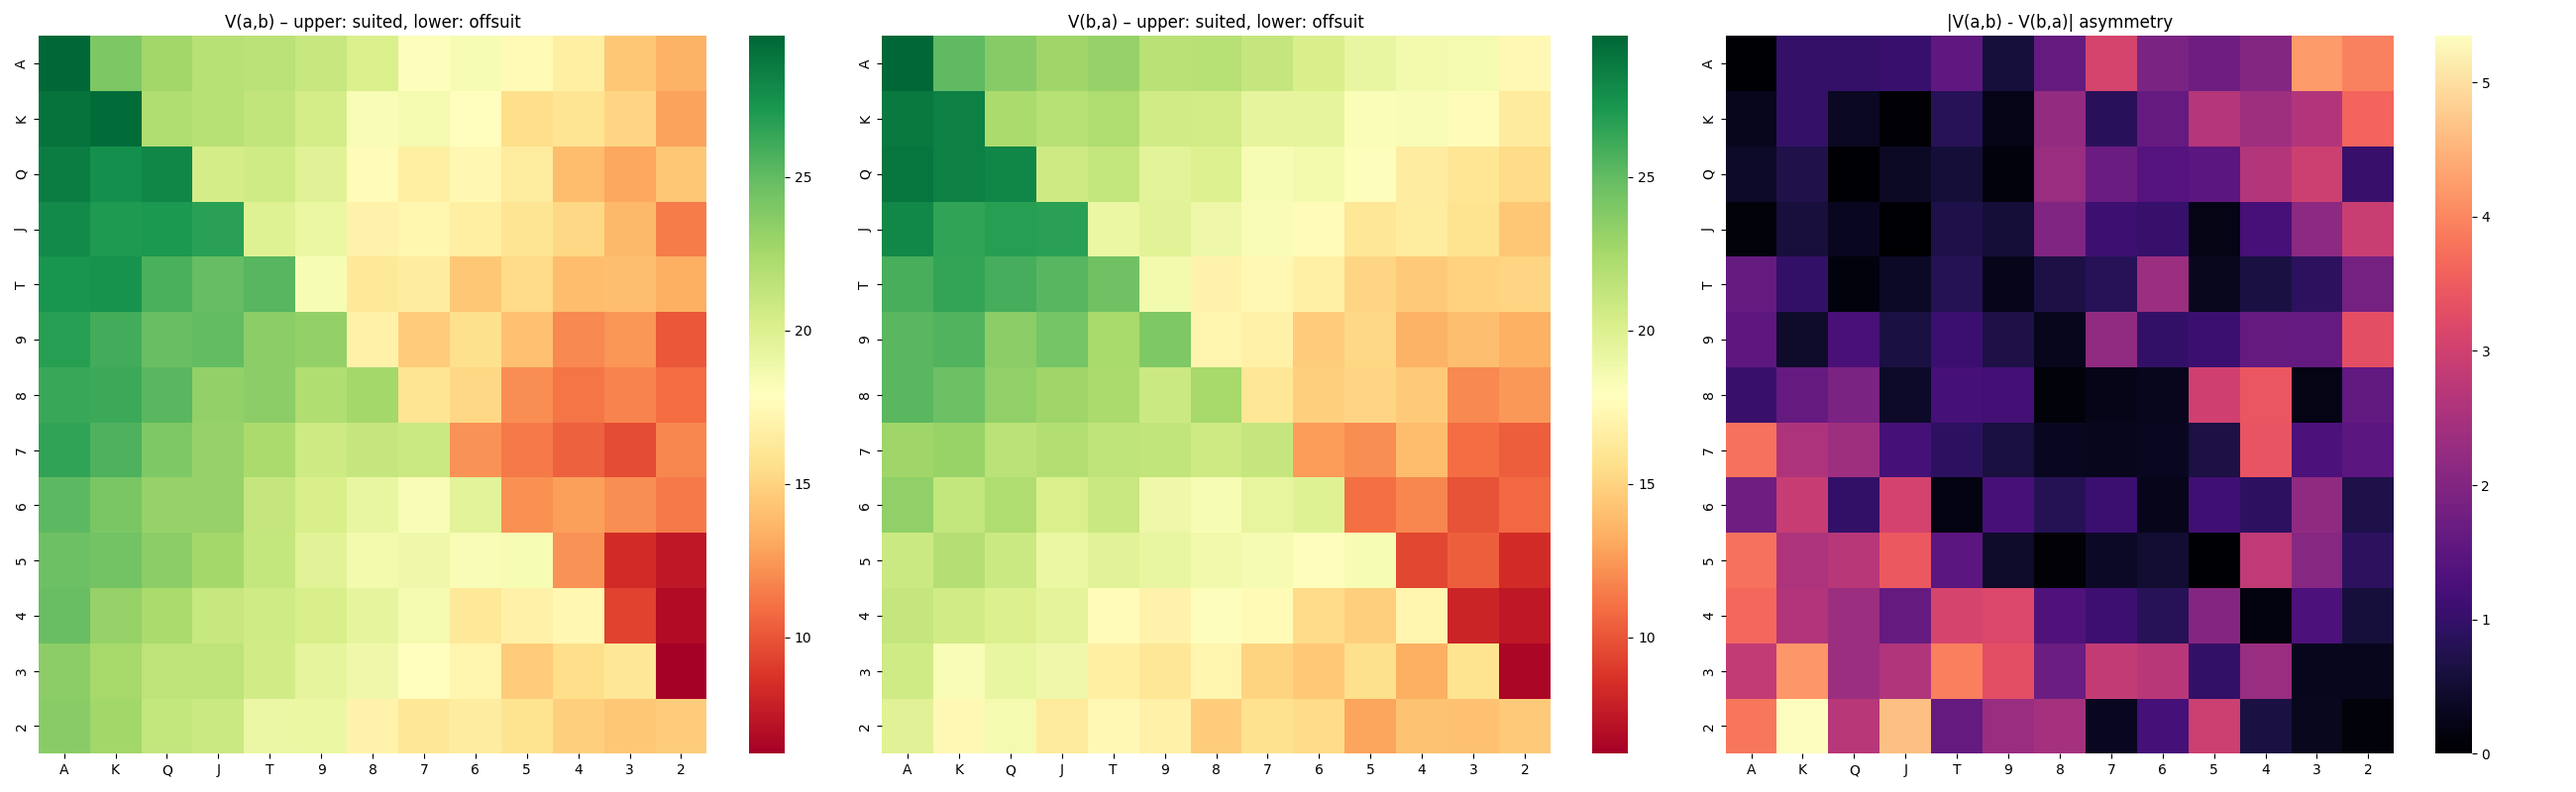
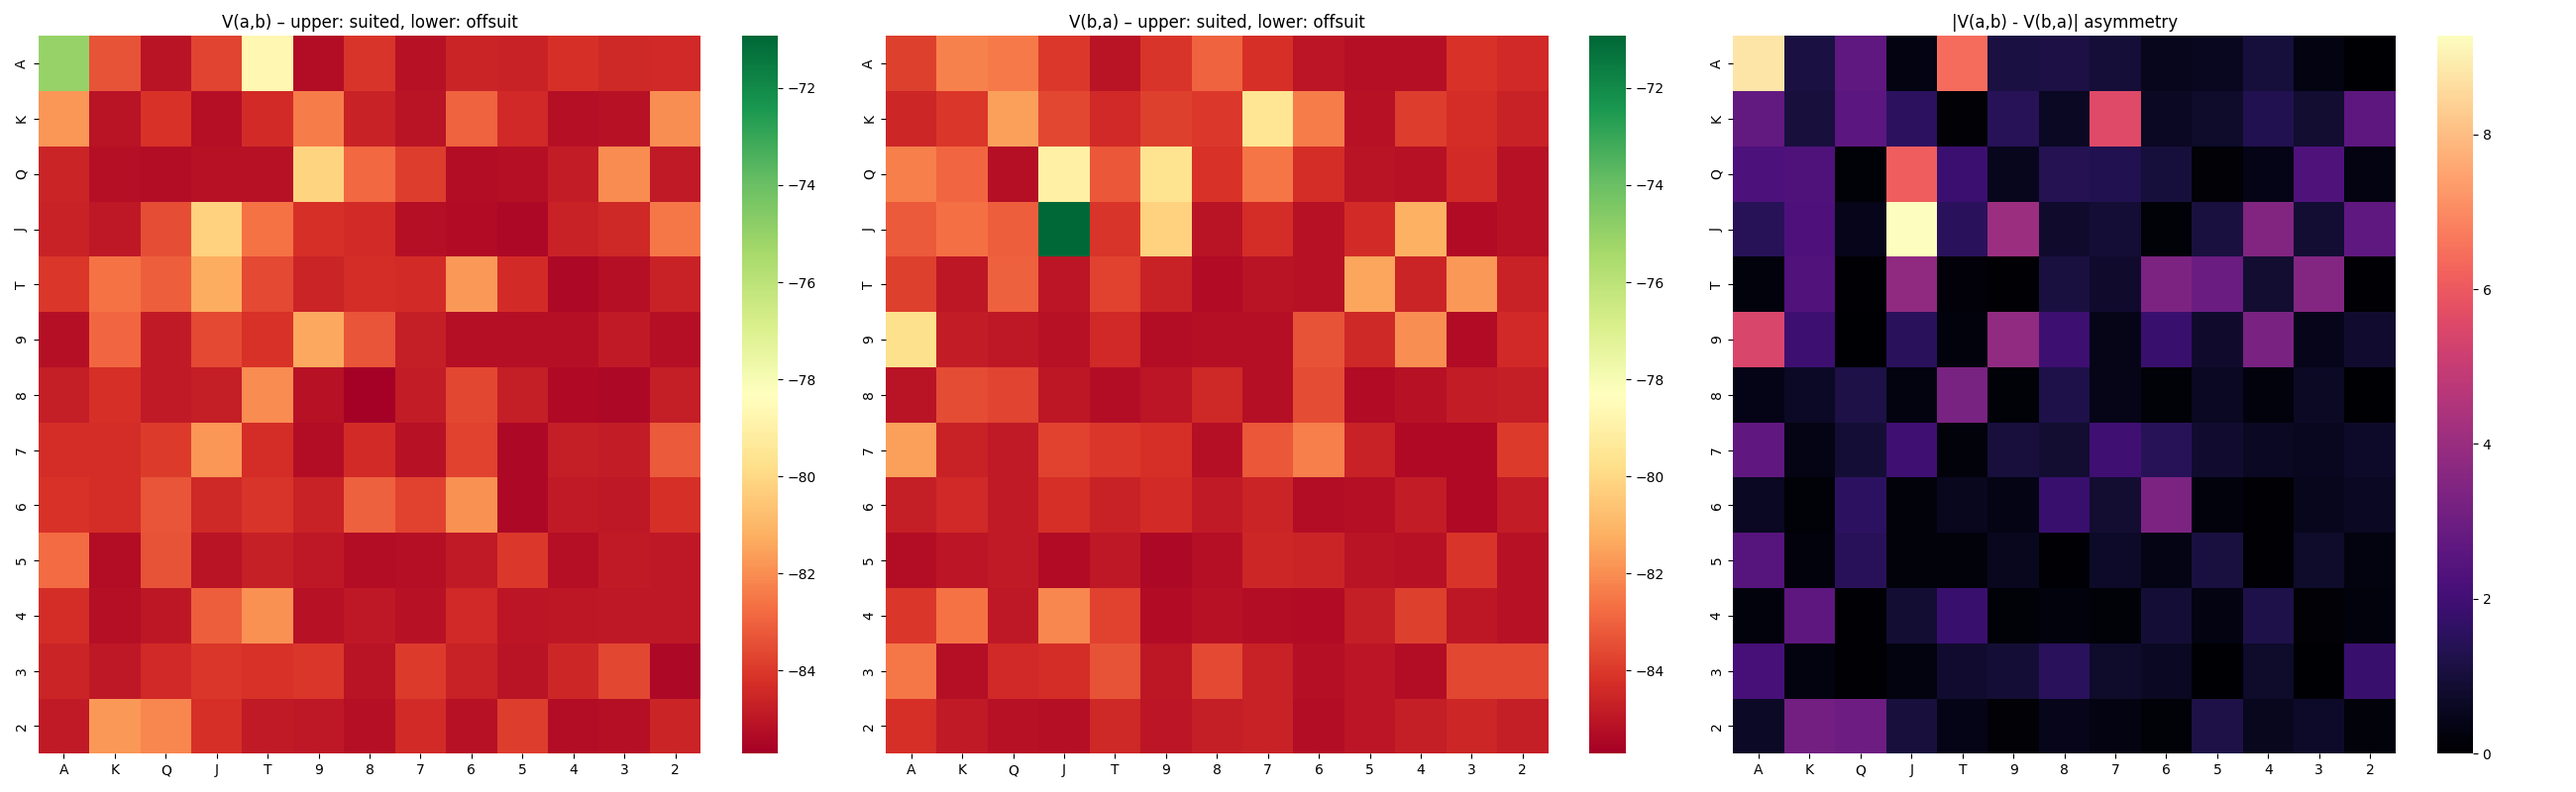
phi reward

diff --git a/poker_train_expresso.py b/poker_train_expresso.py
@@ -22,6 +22,10 @@ from utils.config import DEBUG
 # Compteurs
 number_of_consecutive_hands= 0
 
+# ==================================================================================
+#  RUN ONE EPISODE (nouvelle version avec reward shaping MCCFR)
+# ==================================================================================
+
 def run_episode(env: PokerGame, epsilon: float, rendering: bool, episode: int, render_every: int, data_collector: DataCollector, mccfr_trainer: MCCFRTrainer) -> Tuple[List[float], List[dict]]:
     """
     Exécute un épisode complet du jeu de poker.
@@ -124,8 +128,13 @@ def run_episode(env: PokerGame, epsilon: float, rendering: bool, episode: int, r
             state_seq = copy.deepcopy(state_seq)
         )
 
+        # --------------------------------------------------
+        #  Calcul du potentiel φ(s) = stack + EV_MCCFR(s)
+        # --------------------------------------------------
+        phi_value = mccfr_trainer.compute_phi_from_mccfr(target_vector, payoffs, current_player.stack)
+
         if DEBUG:
-            print(f"[TRAIN] hero_name : {current_player.name}\n[TRAIN] target_vector : {target_vector}\n[TRAIN] payoffs : {payoffs.values()}")
+            print(f"[TRAIN] hero_name : {current_player.name}\n[TRAIN] target_vector : {target_vector}\n[TRAIN] payoffs : {payoffs.values()}, φ(s) : {phi_value:.3f}")
 
         # Prédiction avec une inférence classique du modèle
         chosen_action, action_mask, action_probs = current_player.agent.get_action(state = player_state_seq, valid_actions = valid_actions, target_vector = target_vector, epsilon = epsilon)
@@ -164,7 +173,7 @@ def run_episode(env: PokerGame, epsilon: float, rendering: bool, episode: int, r
             next_state_seq.append(next_state)
             
             # Buffer experience for later reward assignment
-            experiences.append((current_player.agent, player_state_seq.copy(), action_to_idx[chosen_action], action_mask, target_vector, env.current_phase))
+            experiences.append((current_player.agent, player_state_seq.copy(), action_to_idx[chosen_action], action_mask, target_vector, env.current_phase, phi_value))
         
         else : # Cas spécifique au joueur qui déclenche le showdown par son action
             # Stocker l'expérience pour l'entrainement du modèle: on enregistre une copie de la séquence courante
@@ -180,7 +189,7 @@ def run_episode(env: PokerGame, epsilon: float, rendering: bool, episode: int, r
             next_state_seq.append(next_state)
 
             # Stocker l'expérience
-            experiences.append((current_player.agent, previous_player_state_seq.copy(), action_to_idx[chosen_action], action_mask, target_vector, env.current_phase))
+            experiences.append((current_player.agent, previous_player_state_seq.copy(), action_to_idx[chosen_action], action_mask, target_vector, env.current_phase, phi_value))
         
         # Rendu graphique si activé
         handle_rendering(env, rendering, episode, render_every)
@@ -209,27 +218,34 @@ def run_episode(env: PokerGame, epsilon: float, rendering: bool, episode: int, r
         }
         data_collector.add_state(state_info)
     
-    # Repérer la dernière transition pour chaque agent
-    last_transition = {}
-    for exp in experiences:  # exp = (agent, state_seq, action_idx, valid_mask, target_vector, phase)
-        last_transition[exp[0]] = exp  # en écrasant à chaque passage, il ne reste que la plus récente
+    # --------------------------------------------------
+    #  Construction des récompenses densifiées via φ
+    # --------------------------------------------------
+    chronos = {}
+    for idx, exp in enumerate(experiences):
+        chronos.setdefault(exp[0], []).append(idx)
 
-    # Pousser toutes les transitions dans la mémoire, reward uniquement sur la dernière
-    for exp in experiences:
-        agent, state_sequence, action_idx, valid_mask, target_vector, _ = exp
-        is_final = (exp is last_transition[agent])
-        reward   = env.net_stack_changes[agent.name] if is_final else 0.0
-        if DEBUG:
-            print(f"[TRAIN] agent : {agent.name}, length of state_sequence : {len(state_sequence)}, reward : {reward}")
-        done     = is_final
+    for idx, exp in enumerate(experiences):
+        agent, state_sequence, action_idx, valid_mask, tgt_vec, _phase, phi_curr = exp
+        indices = chronos[agent]
+        pos = indices.index(idx)
+        is_final = pos == len(indices) - 1
+        phi_next = experiences[indices[pos + 1]][6] if not is_final else 0.0
+
+        R_env = env.net_stack_changes[agent.name] if is_final else 0.0
+        reward = R_env + agent.gamma * phi_next - phi_curr
+        done = is_final
         next_state_seq = state_sequence[1:] if len(state_sequence) > 1 else state_sequence
+
+        if DEBUG:
+            print(f"[TRAIN] agent={agent.name}, reward={reward:.3f} (R_env={R_env:.3f}, Δφ={(agent.gamma*phi_next - phi_curr):.3f})")
 
         agent.remember(
             state_seq         = state_sequence,
             action_index      = action_idx,
             valid_action_mask = valid_mask,
             reward            = reward,
-            target_vector     = target_vector,
+            target_vector     = tgt_vec,
             done              = done,
             next_state_seq    = next_state_seq
         )

diff --git a/poker_agents.py b/poker_agents.py
@@ -28,24 +28,13 @@ class PokerAgent:
            – **Critique**: MSE(Q(s,a), td)  
         4. Deux optimiseurs Adam indépendants mettent à jour θ et ϕ.
     """
-    def __init__(self, device,state_size, action_size, gamma, learning_rate,
-                 entropy_coeff=0.5,
-                 value_loss_coeff=0.01,
-                 invalid_action_loss_coeff=2,
-                 policy_loss_coeff=0.4,
-                 reward_norm_coeff=0.5,
-                 load_model=False, load_path=None, show_cards=False):
+    def __init__(self, device,state_size, action_size, gamma, learning_rate, load_model=False, load_path=None, show_cards=False):
         """
         Initialisation de l'agent
         :param state_size: Taille du vecteur d'état
         :param action_size: Nombre d'actions possibles
         :param gamma: Facteur d'actualisation pour les récompenses futures
         :param learning_rate: Taux d'apprentissage
-        :param entropy_coeff: Coefficient pour la régularisation par entropie
-        :param value_loss_coeff: Coefficient pour la fonction de valeur
-        :param invalid_action_loss_coeff: Coefficient pour la perte des actions invalides
-        :param policy_loss_coeff: Coefficient pour la perte de la politique
-        :param reward_norm_coeff: Coefficient pour la normalisation des récompenses
         :param load_model: Si True, charge un modèle existant
         :param load_path: Chemin vers le modèle à charger
         """
@@ -65,18 +54,20 @@ class PokerAgent:
         self.action_size = action_size
         self.gamma = gamma
         self.learning_rate = learning_rate
-        self.entropy_coeff = entropy_coeff
-        self.value_loss_coeff = value_loss_coeff
-        self.invalid_action_loss_coeff = invalid_action_loss_coeff
-        self.policy_loss_coeff = policy_loss_coeff
-        self.reward_norm_coeff = reward_norm_coeff
+        self.entropy_coeff = 2.0
+        self.value_loss_coeff = 0.005
+        self.invalid_action_loss_coeff = 10
+        self.policy_loss_coeff = 0.4
+        self.reward_norm_coeff = 4.0
+        self.target_match_loss_coeff = 0.5
+        self.critic_loss_coeff = 0.05
 
         # Utilisation du modèle Transformer qui attend une séquence d'inputs
         self.actor_model = PokerTransformerActorModel(input_dim=state_size, output_dim=action_size).to(device)
         self.critic_model = PokerTransformerCriticModel(input_dim=state_size, output_dim=action_size).to(device)
         self.optimizer = optim.Adam(self.actor_model.parameters(), lr=self.learning_rate)
         self.critic_optimizer = optim.Adam(self.critic_model.parameters(), lr=self.learning_rate * 0.1)
-        self.memory = deque(maxlen=10_000)  # Buffer de replay
+        self.memory = deque(maxlen=1_000)  # Buffer de replay
 
         if load_model:
             self.load(load_path)
@@ -216,7 +207,7 @@ class PokerAgent:
         # Stocker la séquence d'états, l'indice d'action choisie, le masque d'action valide et la récompense finale
         self.memory.append((state_seq, action_index, valid_action_mask, reward, target_vector, done, next_state_seq))
 
-    def train_model(self, batch_size=32):
+    def train_model(self, batch_size=64):
         """
         Une étape d'optimisation sur un mini-batch.
 
@@ -315,7 +306,7 @@ class PokerAgent:
         state_value_loss = F.mse_loss(state_values.squeeze(), td_targets.detach())
         
         # Combinaison des pertes du critique
-        total_critic_loss = critic_loss + self.value_loss_coeff * state_value_loss
+        total_critic_loss = critic_loss * self.critic_loss_coeff + self.value_loss_coeff * state_value_loss
 
         # Perte de l'acteur: utiliser l'avantage pour guider la politique
         # On veut maximiser log(π(a|s)) * avantage, donc minimiser le négatif
@@ -338,7 +329,7 @@ class PokerAgent:
         # Perte totale de l'acteur: combinaison pondérée des composantes
         total_actor_loss = (
             policy_loss * self.policy_loss_coeff
-            + target_match_loss * 0.5  # Coefficient pour l'alignement avec la cible MCCFR
+            + target_match_loss * self.target_match_loss_coeff  # Coefficient pour l'alignement avec la cible MCCFR
             + invalid_action_loss * self.invalid_action_loss_coeff
             - entropy * self.entropy_coeff  # Le négatif car on veut maximiser l'entropie
         )
@@ -356,10 +347,10 @@ class PokerAgent:
         # Métriques pour le suivi
         metrics = {
             'reward_norm_mean': rewards_tensor.mean().item(),
-            'critic_loss': critic_loss.item(),
+            'critic_loss': critic_loss.item() * self.critic_loss_coeff,
             'state_value_loss': state_value_loss.item() * self.value_loss_coeff,
             'policy_loss': policy_loss.item() * self.policy_loss_coeff,
-            'target_match_loss': target_match_loss.item() * 0.5,
+            'target_match_loss': target_match_loss.item() * self.target_match_loss_coeff,
             'invalid_action_loss': invalid_action_loss.item() * self.invalid_action_loss_coeff,
             'entropy': entropy.item() * self.entropy_coeff,
             'total_actor_loss': total_actor_loss.item(),

diff --git a/main.py b/main.py
@@ -28,7 +28,7 @@ for i in range(3):
         action_size=12,
         gamma=GAMMA,
         learning_rate=ALPHA,
-        load_model=True,
+        load_model= True,
         load_path=f"saved_models/poker_agent_{list_names[i]}.pth",
         show_cards=True
     )
@@ -39,7 +39,7 @@ for agent in agent_list:
     print('agent :', agent.name)
 
 # Faire en sorte que les agents IA partagent le même modèle (Changer entre True et False pour activer ou désactiver le partage de modèle)
-if False:
+if True:
     shared_model = agent_list[0].model
     shared_memory = agent_list[0].memory
     for agent in agent_list:  # Seulement pour les 4 premiers agents qui sont des IA
@@ -47,7 +47,7 @@ if False:
         agent.memory = shared_memory
 
 # Test avec un seul Joueur avec un modèle et tous les autres jouent au hasard (ils gardent leur mémoire vide et donc n'apprennent jamais)
-elif True:
+elif False:
     for agent in agent_list[1:]:
         agent.memory = deque(maxlen=0)
 

diff --git a/poker_MCCFR_expresso.py b/poker_MCCFR_expresso.py
@@ -233,3 +233,19 @@ class MCCFRTrainer:
         target_probs = shifted_payoffs / np.sum(shifted_payoffs)
         return target_probs
 
+    def compute_phi_from_mccfr(self, target_vector: np.ndarray, payoffs: dict, stack: float) -> float:
+        """Retourne φ(s) = stack + Σ_a π*(a) · EV(a).
+
+        Les valeurs None (actions non simulées) sont remplacées par la plus petite
+        valeur non‑None pour garder un ordre cohérent.
+        """
+        # Construire le vecteur des payoffs EV(a) dans l'ordre canonique des PlayerAction
+        non_none_vals = [v for v in payoffs.values() if v is not None]
+        min_val = min(non_none_vals) if non_none_vals else 0.0
+        payoff_vec = np.array([
+            (payoffs[a] if payoffs[a] is not None else min_val) for a in PlayerAction
+        ], dtype=np.float32)
+
+        v_mccfr = float(np.dot(target_vector, payoff_vec))
+        return stack + v_mccfr
+

diff --git a/visualization_behavior.py b/visualization_behavior.py
@@ -223,8 +223,8 @@ def build_state_via_env(env: PokerGame, ranks: tuple[int, int], suited: bool, or
     """
     env.reset()
     # Choix des couleurs
-    suit_a = "♥"
-    suit_b = suit_a if suited else "♠"
+    suit_a = rd.choice(["♠", "♥", "♦", "♣"])
+    suit_b = suit_a if suited else rd.choice(list(set(["♠", "♥", "♦", "♣"]) - {suit_a}))
     v1, v2 = ranks if order == "ab" else (ranks[1], ranks[0])
     env.players[0].cards = [Card(suit_a, v1), Card(suit_b, v2)]
     # Mettre à jour le state vector (phase reste preflop, rien d'autre à changer)
@@ -271,7 +271,7 @@ def main(model_path: str):
             diff_matrix[i, j] = abs(v_ab - v_ba)
 
             # Debug print once if verbose requested
-            if i == 0 and j == 1:
+            if i == 0 and j == 1 :
                 debug_full_state(forward_state)
 
     vmin = min(forward_matrix.min(), reverse_matrix.min())

diff --git a/utils/config.py b/utils/config.py
@@ -3,7 +3,7 @@ import random as rd
 import numpy as np
 import torch
 
-EPISODES = 5_000
+EPISODES = 10_000
 GAMMA = 0.9985
 ALPHA = 0.001
 EPS_DECAY = 0.9988
